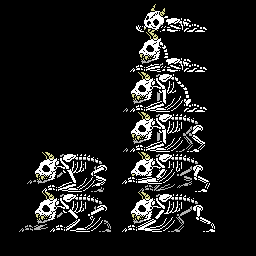
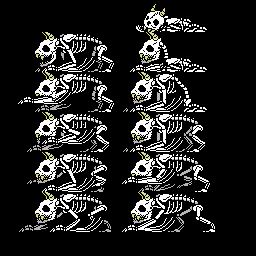
boss 2 claw attack, and started sonic boom attack

Changed region(s): [[0.0625, 0.125, 0.4375, 0.5938]]

diff --git a/java/src/xspelunker2/Bosses.java b/java/src/xspelunker2/Bosses.java
@@ -144,8 +144,12 @@ public class Bosses {
             addNameTable(nameTable, 15, 19, 27, 24, nameTableData);  // walk left 1 (196 + 12*5)
             addNameTable(nameTable, 15, 24, 27, 29, nameTableData);  // walk left 2 (256 + 12*5)
             addNameTable(nameTable, 3, 19, 14, 24, nameTableData);  // walk left 3 (316 + 11*5)
-            addNameTable(nameTable, 2, 24, 14, 29, nameTableData);  // walk left 4 (371 + 12*5)            
-        }
+            addNameTable(nameTable, 2, 24, 14, 29, nameTableData);  // walk left 4 (371 + 12*5)
+            addNameTable(nameTable, 3, 14, 14, 19, nameTableData);  // claw attack 1 (431 + 11*5)
+            addNameTable(nameTable, 2, 9, 15, 14, nameTableData);  // claw attack 2 (486 + 13*5)
+            addNameTable(nameTable, 4, 4, 15, 9, nameTableData);  // sonic wave attack (551 + 11*5)
+    
+    }
 
         // facing right:
         {
